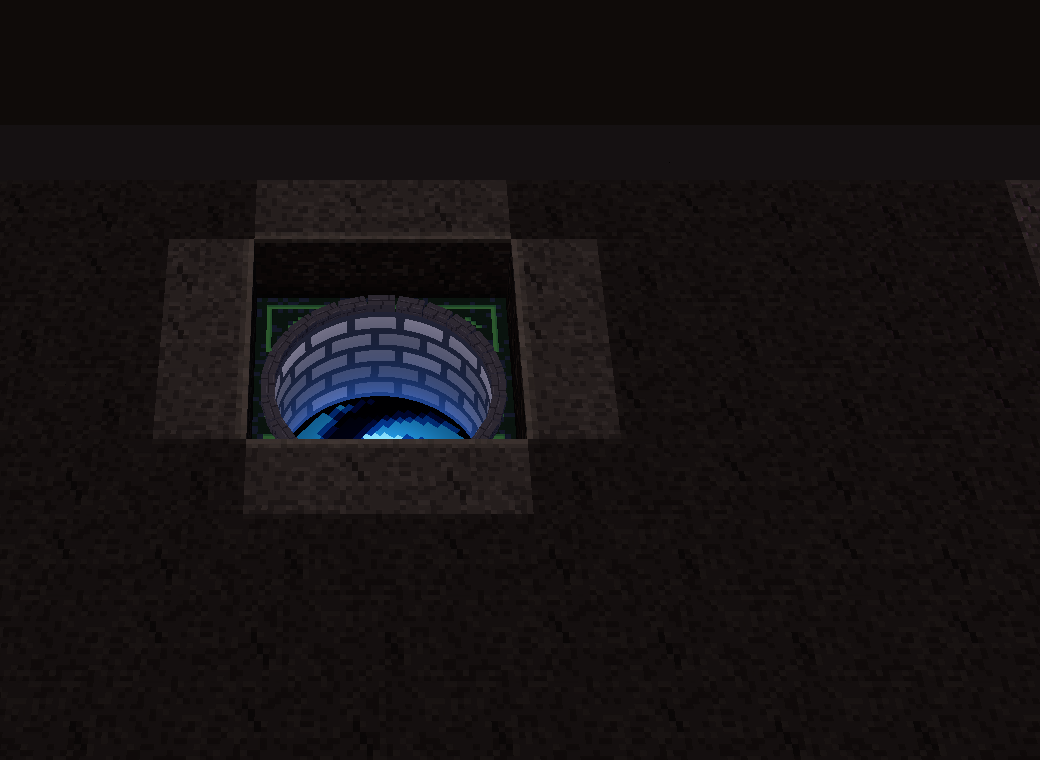
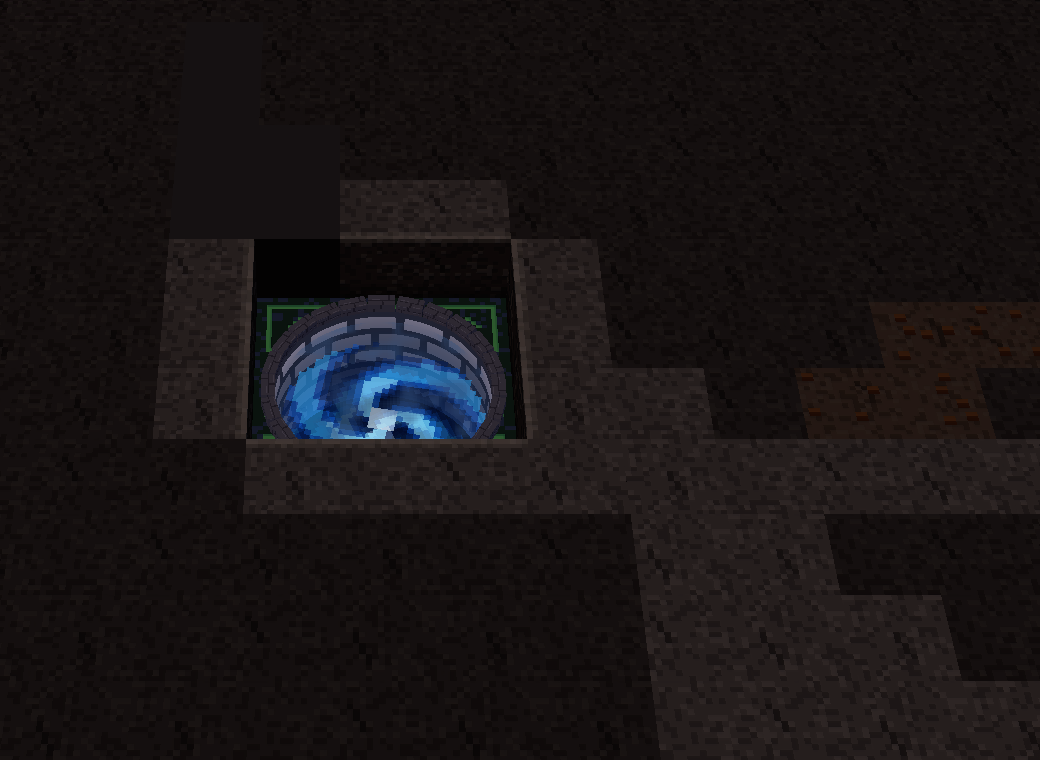
Entrance shaft: mist below the rim, three see-through spiral discs turning against each other at growing depth, fog thickening downwards
Claude-Session: https://claude.ai/code/session_01JMfCUgef6acAD7y95ye19b

diff --git a/view3d.js b/view3d.js
@@ -358,22 +358,38 @@ const View3D=(()=>{
       vertexShader:'varying vec3 vW; void main(){ vec4 w=modelMatrix*vec4(position,1.0); vW=w.xyz; gl_Position=projectionMatrix*viewMatrix*w; }',
       fragmentShader:`uniform float time; uniform vec3 center; uniform float R; uniform float D; uniform sampler2D spiral; varying vec3 vW;
         ${SRGB_TO_LIN}
+        float vnoise(vec2 x){ vec2 i=floor(x), f=fract(x); f=f*f*(3.0-2.0*f); return mix(mix(hsh(i),hsh(i+vec2(1,0)),f.x),mix(hsh(i+vec2(0,1)),hsh(i+vec2(1,1)),f.x),f.y); }
+        // a spiral disc at depth k (0 the highest): turning at its own speed, every other one the other way; returns colour and cover
+        vec4 disc(vec2 q,float k){
+          float sp=(0.35+0.22*k)*(mod(k,2.0)<0.5?-1.0:1.0), ang=time*sp+k*1.7, sc=1.0-0.12*k;
+          vec2 uv=mat2(cos(ang),-sin(ang),sin(ang),cos(ang))*(q/(2.0*R*sc))+0.5; if(uv.x<0.0||uv.y<0.0||uv.x>1.0||uv.y>1.0) return vec4(0.0);
+          uv=(floor(uv*32.0)+0.5)/32.0; vec4 s=texture2D(spiral,uv); return vec4(s.rgb*(1.25-0.15*k),s.a);
+        }
         void main(){
           vec3 o=vW-center; vec2 p=o.xz; if(dot(p,p)>R*R) discard;
           vec3 dir=normalize(vW-cameraPosition); dir.y=min(dir.y,-0.02);
           vec2 d2=dir.xz; float a=dot(d2,d2), b=2.0*dot(p,d2), c=dot(p,p)-R*R;
-          float tw=a>1e-6?(-b+sqrt(max(b*b-4.0*a*c,0.0)))/(2.0*a):1e9, tb=-D/dir.y;
-          vec3 col;
-          if(tb<tw){       // the bottom: the spiral, turning, in pixels
-            vec2 q=p+d2*tb; float ang=-time*0.7; vec2 uv=mat2(cos(ang),-sin(ang),sin(ang),cos(ang))*(q/(2.0*R))+0.5; uv=(floor(uv*32.0)+0.5)/32.0;
-            vec4 s=texture2D(spiral,uv); col=mix(vec3(0.01,0.02,0.06),s.rgb*1.15,s.a)*(0.55+0.45*smoothstep(R,0.2*R,length(q)));
-          } else {         // the wall: bricks in pixels, darker with depth, lit blue from below
-            vec3 h=o+dir*tw; float depth=-h.y, u=atan(h.z,h.x)*R;
+          float tw=a>1e-6?(-b+sqrt(max(b*b-4.0*a*c,0.0)))/(2.0*a):1e9, tb=-D/dir.y, tEnd=min(tw,tb);
+          vec3 fogCol=vec3(0.16,0.24,0.36); vec3 acc=vec3(0.0); float trans=1.0;
+          // the end of the ray: the wall (bricks, darker with depth, lit blue from below) or the deepest spiral
+          vec3 endCol;
+          if(tb<tw){ vec2 q=p+d2*tb; vec4 s=disc(q,3.0); endCol=mix(vec3(0.01,0.02,0.06),s.rgb,s.a); }
+          else { vec3 h=o+dir*tw; float depth=-h.y, u=atan(h.z,h.x)*R;
             vec2 bp=floor(vec2(u,depth)*10.0); float row=floor(bp.y/3.0); float bx=bp.x+mod(row,2.0)*3.0;
             vec2 cell=vec2(floor(bx/6.0),row); bool mortar=mod(bx,6.0)<1.0||mod(bp.y,3.0)<1.0;
-            vec3 stone=vec3(0.46,0.43,0.48)*(0.75+0.35*hsh(cell)); col=mortar?vec3(0.14,0.13,0.16):stone;
-            col*=0.25+0.75*exp(-depth*0.8); col+=vec3(0.08,0.22,0.5)*exp(-(D-depth)*1.4);
+            vec3 stone=vec3(0.46,0.43,0.48)*(0.75+0.35*hsh(cell)); endCol=mortar?vec3(0.14,0.13,0.16):stone;
+            endCol*=0.3+0.7*exp(-depth*0.9); endCol+=vec3(0.08,0.22,0.5)*exp(-(D-depth)*1.6); }
+          // the layers in front of it, nearest first: mist just below the rim, then three see-through spirals; fog thickens with the way the ray goes down
+          for(int i=0;i<4;i++){
+            float k=float(i), dk=i==0?0.12*D:D*(0.32+0.22*(k-1.0)), tk=-dk/dir.y; if(tk>=tEnd) continue;
+            vec2 q=p+d2*tk; vec4 L;
+            if(i==0){ float n=vnoise(floor((q*3.2+vec2(time*0.25,time*0.13))*8.0)/8.0)*0.7+vnoise(q*7.0-vec2(time*0.4,0.0))*0.3; L=vec4(fogCol*1.4,smoothstep(0.45,0.85,n)*0.55); }
+            else { L=disc(q,k-1.0); L.a*=0.5; }
+            float fogA=1.0-exp(-dk*0.55); L.rgb=mix(L.rgb,fogCol,fogA*0.6);
+            acc+=trans*L.a*L.rgb; trans*=1.0-L.a;
           }
+          float fogEnd=1.0-exp(-min(tEnd,tb)*0.5*(-dir.y)*2.0); endCol=mix(endCol,fogCol,fogEnd*0.55);
+          vec3 col=acc+trans*endCol;
           gl_FragColor=vec4(lin(col),1.0);
           #include <colorspace_fragment>
         }` });

diff --git a/docs/ui.md b/docs/ui.md
@@ -13,7 +13,7 @@ Die Welt füllt das ganze Fenster, links liegt das Menü (`ui-panel.js` und das 
 Wände, Böden und die Räume im Ludus-Hof haben ein Relief (Optionen → Relief: Aus, Leicht, Stark; voreingestellt Leicht). Die Höhenkarte ist die Helligkeit des Musters jeder Pixel-Textur, genommen bevor Licht- und Schattenkanten aufgemalt werden (hell = hoch: Fugen und Risse liegen tief, Steine und Bretter hoch; Risse werden zusätzlich schwarz eingeschnitten). Die Höhenkarte wird weich ausgelesen, damit an den Pixelgrenzen Schrägen entstehen statt dünner Linien; Three.js neigt damit das Licht je Bildpunkt (`bumpMap`, `RELIEF_SCALE` in `postfx.js`). Stufe **Tief** (3) fügt Parallax-Occlusion-Mapping hinzu (Nutzer, November 2026): bevor die Textur gelesen wird, geht ein kurzer Strahl vom Auge in die Höhenkarte hinein (8 bis 24 Schritte, mehr bei flachem Blick), bis er auf die Oberfläche trifft; Textur und Relief werden dort gelesen. So verschieben sich die Muster mit dem Blickwinkel, hohe Steine verdecken die Fugen dahinter. Eingehängt in Three.js' eigenen Lambert-Shader (`onBeforeCompile`, `pomInstall` in `postfx.js`); die Tangenten kommen aus den Bildschirm-Ableitungen, die Geometrie braucht keine. Tiefe `POM_SCALE` = 0,07 der Texturbreite. Die Wand- und Bodentexturen wiederholen sich dafür (der Strahl darf ein Stück über den Rand lesen). Das Zusammenspiel mit den Bildeffekten (Gemalt, Pixel glatt, Röhre) ist noch auszuprobieren.
 
 ## Eingang und Weltportal in 3D
-Beide sind 3 × 3 Kacheln groß (Nutzer, November 2026; vorher 2 × 2). In 2D bleiben sie Bilder auf dem Boden; in 3D (`view3d.js`, „gates“) ist der **Eingang ein runder Schacht**: eine flache Scheibe über dem Boden, deren Shader für jeden Bildpunkt einen Strahl in einen gedachten Brunnen schickt und die gemauerte Wand oder unten die drehende blaue Spirale zeichnet (Tiefe ohne Geometrie, derselbe Gedanke wie beim Parallax-Relief); ein Ring aus Steinen fasst ihn. Das **Weltportal ist ein stehendes Steintor** mit einer lodernden Feuermembran. Beide werden je Ort einmal gebaut und behalten.
+Beide sind 3 × 3 Kacheln groß (Nutzer, November 2026; vorher 2 × 2). In 2D bleiben sie Bilder auf dem Boden; in 3D (`view3d.js`, „gates“) ist der **Eingang ein runder Schacht**: eine flache Scheibe über dem Boden, deren Shader für jeden Bildpunkt einen Strahl in einen gedachten Brunnen schickt und die gemauerte Wand oder unten die drehende blaue Spirale zeichnet (Tiefe ohne Geometrie, derselbe Gedanke wie beim Parallax-Relief); ein Ring aus Steinen fasst ihn. Im Schacht liegen hintereinander (Nutzer): eine Nebelschicht knapp unter dem Rand (wabernd), drei durchscheinende Spiralscheiben in wachsender Tiefe, jede mit eigenem Tempo und abwechselnder Drehrichtung, und unten die volle Spirale; der Strahl mischt sie von vorn nach hinten, und Nebel verdichtet sich mit der Tiefe. Das **Weltportal ist ein stehendes Steintor** mit einer lodernden Feuermembran. Beide werden je Ort einmal gebaut und behalten.
 
 ## Bildeffekt in 3D
 Über das 3D-Bild der Level-Ansicht legt `view3d.js` einen kleinen Nachbearbeitungsschritt: Das Bild wird zuerst in eine Textur gerendert, dann weichzeichnet ein Shader es leicht (die harten Pixelkanten der Sprites verschmelzen mit der Welt), helle Stellen leuchten etwas nach, die Ecken werden dunkler. Stufen: aus, weich, dunstig (Knopf 🌫 oder Taste F, wird gemerkt). Die Stufe „weich" ist voreingestellt.
